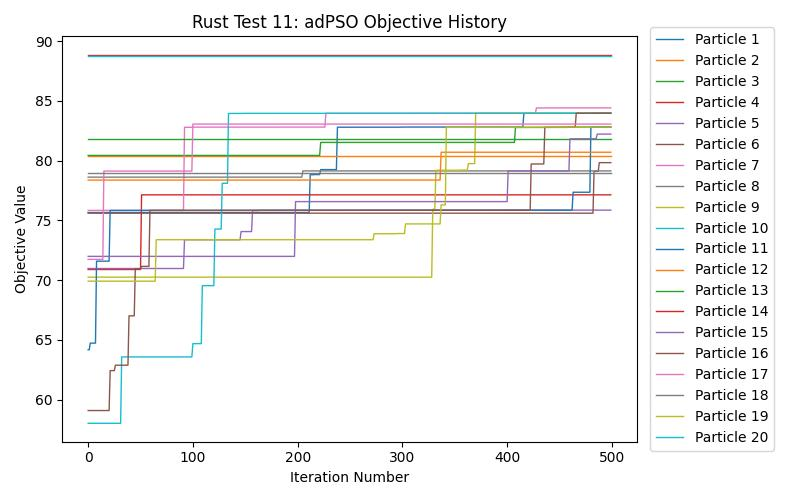
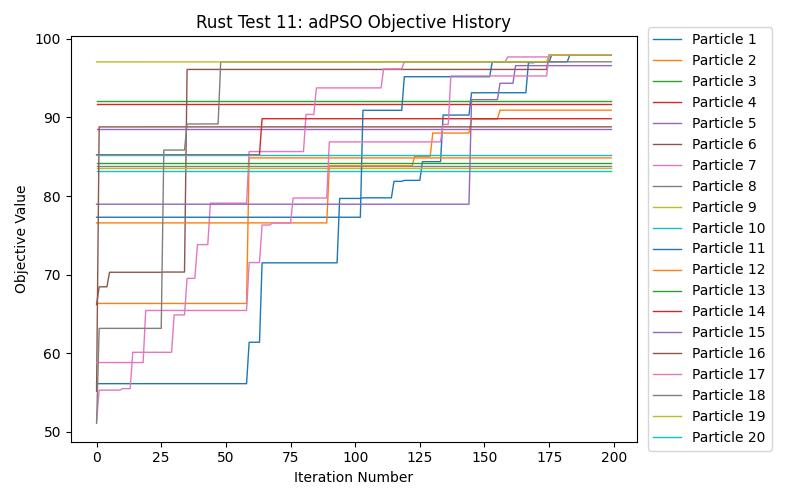
fix bug with sorting workload tasks (incorrectly was sorting in-place)

diff --git a/psoscheduler-rust/src/lib.rs b/psoscheduler-rust/src/lib.rs
@@ -154,7 +154,7 @@ pub fn build_test6_data_center() -> simulation::data_center::DataCenter {
 pub fn build_test6_workload() -> simulation::workload::Workload {
   reset_workload_id_counter();
 
-  let n_tasks: usize = 5;
+  let n_tasks: usize = 2;
   let task_mi_low: usize = 5;
   let task_mi_high: usize = 20;
 
@@ -234,15 +234,15 @@ pub fn build_basic_data_center() -> simulation::data_center::DataCenter {
 
 pub fn basic_tests() {
   println!("Hello, world!");
-  let t = simulation::task::Task::new(500);
-  let t2 = simulation::task::Task::new(600);
+  let t = simulation::task::Task::new(9);
+  let t2 = simulation::task::Task::new(19);
   println!("{} {}", t, t2);
   let mut wk = simulation::workload::Workload::new();
   wk.add_task(t);
   wk.add_task(t2);
   println!("{}", wk);
-  let vm = simulation::virtual_machine::VirtualMachine::new(200, 300.0);
-  let vm2 = simulation::virtual_machine::VirtualMachine::new(400, 500.0);
+  let vm = simulation::virtual_machine::VirtualMachine::new(95, 5.263158);
+  let vm2 = simulation::virtual_machine::VirtualMachine::new(99, 5.050505);
   println!("{} {}", vm, vm2);
   let mut dc = simulation::data_center::DataCenter::new();
   dc.add_virtual_machine(vm);
@@ -253,7 +253,11 @@ pub fn basic_tests() {
   dc.add_execution_time_to_virtual_machine(&wk.tasks[0], 0);
   dc.add_execution_time_to_virtual_machine(&wk.tasks[1], 1);
   let obj = dc.compute_objective();
-  println!("{}", obj);
+  println!("{:?}", dc.virtual_machine_ready_time);
+  println!("Objective: {}", obj);
+  println!("Makespan: {}", dc.compute_makespan());
+  println!("Throughput: {}", dc.compute_throughput());
+  println!("TEC: {}", dc.compute_energy_consumption_kwh());
   let t3 = simulation::task::Task::new(100);
   let t4 = simulation::task::Task::new(50);
   wk.add_task(t3);
@@ -309,14 +313,9 @@ pub fn run_test_pso_main() {
   }
 
   println!("Global Best Objective: {:?}", swarm.global_best_objective);
-  println!("Global Best Throughput: {:?}", swarm.global_best_throughput);
-  println!("Global best pos (double check) \n{}", swarm.global_best_position);
-  println!("Global best vmrt \n{:?}", swarm.data_center.virtual_machine_ready_time);
-  println!("Global Best Objective (double check): {:?}", swarm.data_center.compute_objective());
-  println!("Global Best Makespan (double check): {:?} sec", swarm.data_center.compute_makespan());
-  println!("Global Best Throughput (double check): {:?} tasks/sec", swarm.data_center.compute_throughput());
-  println!("Global Best Energy Consumption (double check): {:?} kWh", swarm.data_center.compute_energy_consumption_kwh());
-  // println!("Final Mapping: {:?}", swarm.global_best_task_vm_mapping);
+  println!("Global Best Makespan: {:?}", swarm.data_center.compute_makespan());
+  println!("Global Best Throughput: {:?} tasks/sec", swarm.data_center.compute_throughput());
+  println!("Global Best Energy Consumption: {:?} kWh", swarm.data_center.compute_energy_consumption_kwh());
 
   println!("Saving objective history to objective_history.csv... ");
   // Save the cost history to local file

diff --git a/psoscheduler-rust/src/pso/particle.rs b/psoscheduler-rust/src/pso/particle.rs
@@ -19,7 +19,6 @@ pub struct Particle {
   pub task_vm_mapping: HashMap<usize, usize>,
   pub personal_best_position: Array2<f32>,
   pub personal_best_objective: f32,
-  pub personal_best_throughput: f32,
   pub objective_history: Vec<f32>,
 }
 
@@ -37,7 +36,7 @@ impl Particle {
 
     for task in workload.get_sorted_tasks().iter() {
       let vm_id: usize;
-      if utilities::get_random_float(0., 1.) < 0.25 {
+      if utilities::get_random_float(0., 1.) < 0.3 {
         vm_id = utilities::get_random_integer(0, data_center.virtual_machines.len());
       } else {
         vm_id = data_center.get_min_eet_virtual_machine(task);
@@ -51,7 +50,6 @@ impl Particle {
     let velocity:Array2<f32>  = Array::random((workload.tasks.len(), data_center.virtual_machines.len()), Uniform::new(0., 1.));
     let personal_best_position: Array2<f32> = position.clone();
     let personal_best_objective: f32 = data_center.compute_objective();
-    let personal_best_throughput: f32 = data_center.compute_throughput();
     let objective_history: Vec<f32> = Vec::new();
 
     Particle {
@@ -61,7 +59,6 @@ impl Particle {
       task_vm_mapping: task_vm_mapping,
       personal_best_position: personal_best_position,
       personal_best_objective: personal_best_objective,
-      personal_best_throughput: personal_best_throughput,
       objective_history: objective_history,
     }
   }
@@ -75,7 +72,6 @@ impl Particle {
 
     if objective > self.personal_best_objective {
       self.personal_best_objective = objective;
-      self.personal_best_throughput = data_center.compute_throughput();
       self.personal_best_position = self.position.clone();
       self.objective_history.push(objective);
       return 1;

diff --git a/psoscheduler-rust/src/pso/pso_swarm.rs b/psoscheduler-rust/src/pso/pso_swarm.rs
@@ -11,7 +11,6 @@ pub struct PSOSwarm {
   pub p_s: f32,
   pub w: f32,
   pub global_best_objective: f32,
-  pub global_best_throughput: f32,
   pub global_best_position: Array2<f32>,
   pub global_best_task_vm_mapping: HashMap<usize, usize>,
   pub particles: Vec<Particle>,
@@ -37,7 +36,6 @@ impl PSOSwarm {
     let global_best_task_vm_mapping: HashMap<usize, usize> = HashMap::new();
     let global_best_position = particles.get(0).unwrap().position.clone();
     let global_best_objective = particles.get(0).unwrap().personal_best_objective;
-    let global_best_throughput = particles.get(0).unwrap().personal_best_throughput;
 
     let mut swarm = PSOSwarm {
       max_iterations: max_iterations,
@@ -46,7 +44,6 @@ impl PSOSwarm {
       w: w,
       global_best_objective: global_best_objective,
       global_best_position: global_best_position,
-      global_best_throughput: global_best_throughput,
       global_best_task_vm_mapping: global_best_task_vm_mapping,
       particles: particles,
       workload: workload,
@@ -89,9 +86,6 @@ impl PSOSwarm {
   pub fn find_global_best(&mut self) {
     for particle in self.particles.iter() {
       if particle.personal_best_objective > self.global_best_objective {
-        println!("{}", particle.personal_best_position);
-        println!("{}", particle.personal_best_objective);
-        self.global_best_throughput = particle.personal_best_throughput;
         self.global_best_objective = particle.personal_best_objective;
         self.global_best_position = particle.personal_best_position.clone();
       }

diff --git a/psoscheduler-rust/src/simulation/data_center.rs b/psoscheduler-rust/src/simulation/data_center.rs
@@ -42,6 +42,7 @@ impl DataCenter {
   }
 
   fn get_task_execution_time(&self, task: &Task, vm: &VirtualMachine) -> f32 {
+    // println!("{} / {} = {}", task.millions_of_instructions as f32, vm.millions_of_instructions_per_second as f32, (task.millions_of_instructions as f32) / (vm.millions_of_instructions_per_second as f32));
     (task.millions_of_instructions as f32) / (vm.millions_of_instructions_per_second as f32)
   }
 
@@ -54,6 +55,7 @@ impl DataCenter {
     }
 
     let new_execution_time: f32 = current_execution_time + self.get_task_execution_time(&task, &vm);
+    // println!("setting to {} sec", new_execution_time);
     self.virtual_machine_ready_time.insert(vm.id, new_execution_time);
     self.task_count += 1;
     self.total_millions_of_instructions += task.millions_of_instructions;

diff --git a/psoscheduler-rust/src/simulation/workload.rs b/psoscheduler-rust/src/simulation/workload.rs
@@ -22,9 +22,13 @@ impl Workload {
     self.tasks.push(t);
   }
 
-  pub fn get_sorted_tasks(&mut self) -> &Vec<Task> {
-    self.tasks.sort();
-    &self.tasks
+  pub fn get_sorted_tasks(&mut self) -> Vec<&Task> {
+    let mut clone = Vec::new();
+    for task in self.tasks.iter() {
+      clone.push(task);
+    }
+    clone.sort();
+    clone
   }
 }
 
